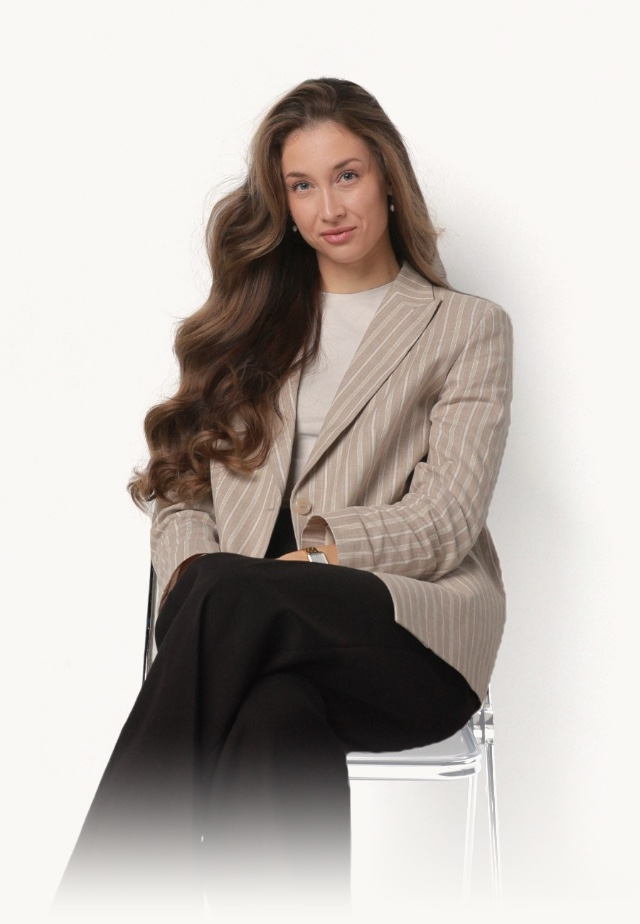
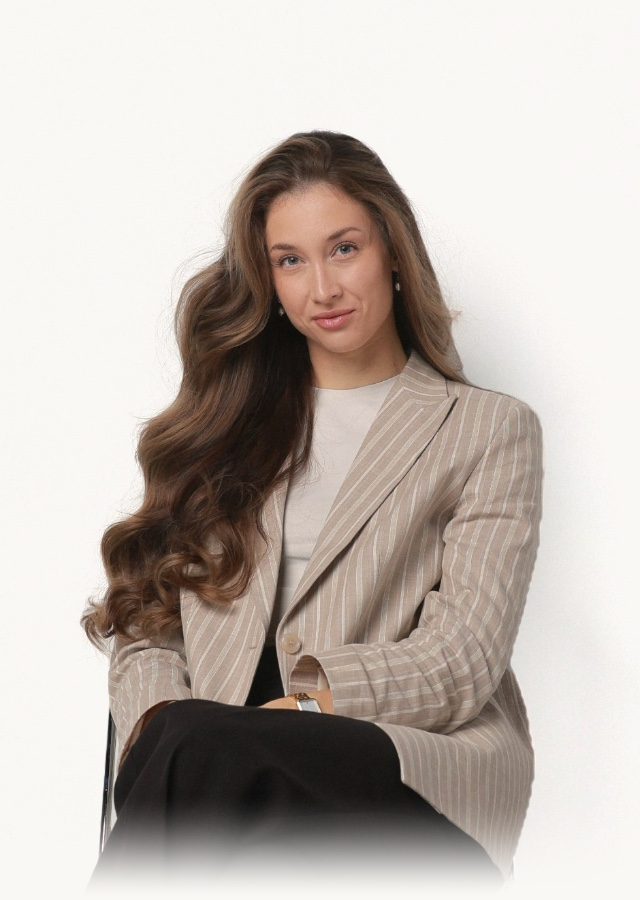
Einstieg: engerer Ausschnitt mit Fokus auf Gesicht, Bild auf dem Desktop mittig zwischen Titel und Navigationsrand

diff --git a/index.html b/index.html
@@ -58,8 +58,8 @@
 
       <figure class="einstieg__person">
         <picture>
-          <source media="(max-width: 900px)" srcset="assets/fotos/anna-saakyan-einstieg-mobil.jpg" width="640" height="924">
-          <img src="assets/fotos/anna-saakyan-einstieg.jpg" width="1010" height="1420"
+          <source media="(max-width: 900px)" srcset="assets/fotos/anna-saakyan-einstieg-mobil.jpg" width="640" height="900">
+          <img src="assets/fotos/anna-saakyan-einstieg.jpg" width="940" height="1322"
                alt="Anna Saakyan in beigem Nadelstreifen-Blazer, mit langen, gewellten Haaren, sitzt auf einem Stuhl und lächelt in die Kamera."
                fetchpriority="high">
         </picture>

diff --git a/assets/css/site.css b/assets/css/site.css
@@ -261,6 +261,8 @@ html:not(.js) .kopf__menu { display: none; }
   .einstieg__absatz { margin-top: var(--space-6); max-width: 40ch; align-self: start; }
   .einstieg__knoepfe { padding-bottom: calc(var(--titel-hoch) + var(--space-6)); }
   .einstieg__person { width: var(--pw); margin: 0 calc(var(--bleed) * -1) 0 0; }
+  /* Person mittig zwischen dem Punkt der ersten Titelzeile und dem rechten Rand der Navigation (gemessen 901 bis 1440 px) */
+  .einstieg__person { translate: -42px 0; }
 }
 
 /* ---------- Registerblätter ---------- */
